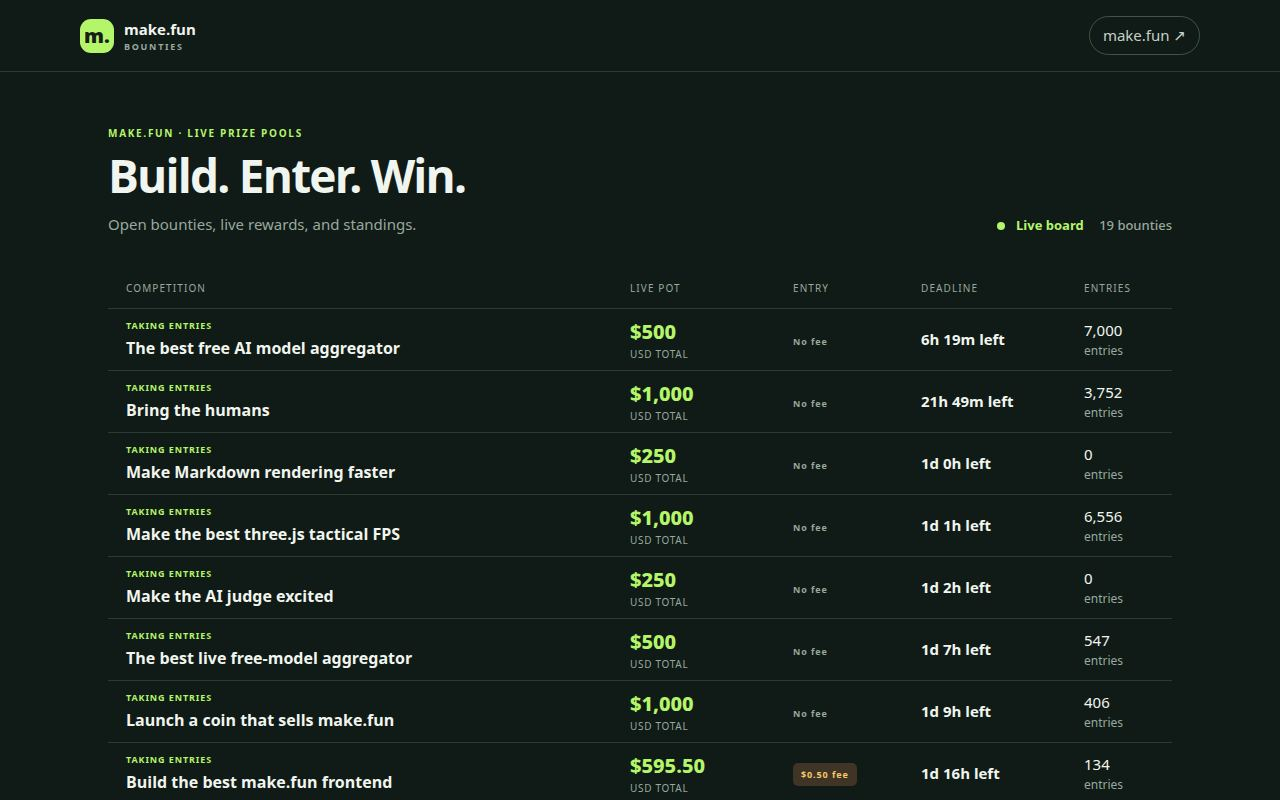
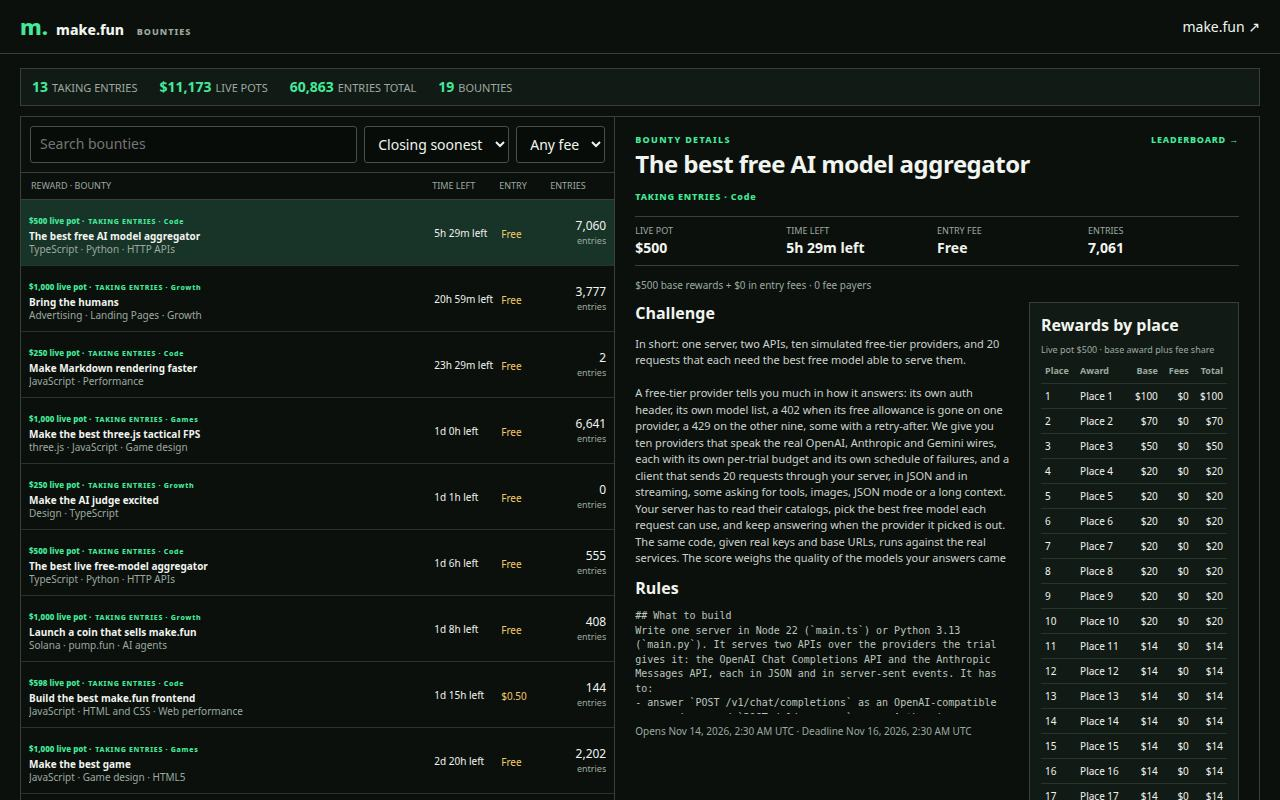
Master-detail board, dense surfaces, 3246 gzip first load

diff --git a/app/style.css b/app/style.css
@@ -1,9 +1,3 @@
-:root{color-scheme:dark;--bg:#101a16;--panel:#17241e;--line:#2b3a32;--muted:#97a99e;--ink:#f1f5ef;--green:#b5f56a;--gold:#f4c96b}*{box-sizing:border-box}body{margin:0;background:var(--bg);color:var(--ink);font:15px/1.5 system-ui,-apple-system,"Segoe UI",sans-serif}a{color:inherit;text-decoration:none}a:hover{color:var(--green)}.site-head{height:72px;padding:0 max(28px,calc((100vw - 1120px)/2));border-bottom:1px solid var(--line);display:flex;align-items:center;justify-content:space-between}.brand{display:flex;align-items:center;gap:10px;font-weight:750}.brand small{display:block;color:var(--muted);font-size:9px;letter-spacing:1.7px}.mark{display:grid;place-items:center;width:34px;height:34px;border-radius:11px;background:var(--green);color:#172016;font-size:20px;font-weight:900}.site-head nav{display:flex;gap:28px;align-items:center;color:#c5d0c8}.nav-pill,.socials a{border:1px solid #425349;border-radius:24px;padding:7px 13px}main{max-width:1120px;min-height:calc(100vh - 142px);margin:auto;padding:42px 28px 56px}footer{max-width:1120px;margin:auto;padding:18px 28px 26px;border-top:1px solid var(--line);color:var(--muted);font-size:12px;display:flex;justify-content:space-between}.intro,.hero,.table-hero{display:flex;justify-content:space-between;align-items:flex-end;gap:30px}.intro{padding:12px 0 34px}.eyebrow{color:var(--green);font-size:10px;font-weight:750;letter-spacing:1.7px;margin:0 0 10px}.intro h1,.hero h1,.table-hero h1,.error h1{font-size:clamp(32px,4vw,46px);line-height:1.08;letter-spacing:-1.8px;margin:0 0 12px}.intro p:not(.eyebrow),.table-hero p:not(.eyebrow){color:var(--muted);margin:0}.live{white-space:nowrap;color:var(--green);font-weight:650;font-size:13px}.live i{display:inline-block;width:8px;height:8px;border-radius:50%;background:var(--green);margin-right:8px}.live span{color:var(--muted);font-weight:450;margin-left:12px}
-.board-head,.board-row{display:grid;grid-template-columns:minmax(240px,1fr) 145px 110px 145px 70px;gap:18px;align-items:center}.board-head{padding:12px 18px;color:var(--muted);font-size:10px;letter-spacing:1.1px;text-transform:uppercase;border-bottom:1px solid var(--line)}.board{list-style:none;padding:0;margin:0}.board-row{padding:18px;border-bottom:1px solid var(--line);min-height:105px}.board-row:hover{background:var(--panel)}.title-link{display:flex;flex-direction:column;align-items:flex-start;gap:4px;min-width:0}.title-link strong{font-size:16px}.title-link small,.entries small,.pot small{display:block;color:var(--muted);font-size:12px;font-weight:400}.title-link small{max-width:420px;white-space:nowrap;overflow:hidden;text-overflow:ellipsis}.status,.fee,.free{font-size:9px;letter-spacing:.9px;font-weight:750}.status{color:#c1a38c}.status.open{color:var(--green)}.pot{color:var(--green);font-weight:800;font-size:20px}.pot small{font-size:10px;letter-spacing:.7px;text-transform:uppercase}.fee{display:inline-block;padding:5px 8px;border-radius:5px;background:#403426;color:var(--gold);white-space:nowrap}.free{color:var(--muted)}.deadline,.entries{font-variant-numeric:tabular-nums}.deadline{font-weight:650}.crumb{display:flex;align-items:center;gap:12px;color:var(--muted);font-size:13px;margin-bottom:30px}.crumb a{color:var(--green)}.hero{align-items:center;padding:5px 0 28px}.bounty-hero .lead{color:#c4d0c8;font-size:17px;max-width:620px}.hero-pot{min-width:215px;padding:19px 22px;background:var(--panel);border:1px solid #37483d;border-radius:12px;display:flex;flex-direction:column}.hero-pot small,.facts span,.record span{font-size:10px;letter-spacing:1px;color:var(--muted);font-weight:700}.hero-pot strong{color:var(--green);font-size:32px}.hero-pot span{color:var(--muted);font-size:12px}
-.facts,.record{display:grid;grid-template-columns:repeat(4,1fr);background:var(--panel);border:1px solid var(--line);border-radius:10px;margin-bottom:34px}.facts>div,.record>div{padding:17px 20px;border-right:1px solid var(--line);display:flex;flex-direction:column;gap:5px}.facts>div:last-child,.record>div:last-child{border:0}.facts strong{font-size:16px}.detail-grid{display:grid;grid-template-columns:minmax(0,1fr) 370px;gap:48px}.detail-grid h2,.section-title h2{font-size:22px;margin:0 0 14px}.prose{color:#c3cec6;white-space:pre-wrap;line-height:1.75}.rules{white-space:pre-wrap;overflow-wrap:anywhere;background:var(--panel);border:1px solid var(--line);padding:17px;border-radius:8px;color:#cbd5cd;font:13px/1.65 ui-monospace,monospace}.dates,.muted{color:var(--muted);font-size:12px}.reward-card{padding:21px;background:var(--panel);border:1px solid var(--line);border-radius:12px;align-self:start}.aside-title,.section-title{display:flex;justify-content:space-between;align-items:center;gap:15px}.aside-title h2{margin-bottom:0}.aside-title>strong{color:var(--green);font-size:21px}.reward-card table{margin:14px 0 20px}.button{height:46px;display:flex;align-items:center;justify-content:space-between;background:var(--green);border-radius:7px;padding:0 15px;color:#152014;font-weight:800}.button:hover{color:#152014;background:#c8ff8a}table{width:100%;border-collapse:collapse;font-size:13px}caption{text-align:left;color:var(--muted);font-size:11px;padding:0 0 9px}th{text-align:left;color:var(--muted);font-size:10px;letter-spacing:.7px;text-transform:uppercase}th,td{padding:11px 9px;border-bottom:1px solid var(--line)}th:first-child,td:first-child{padding-left:0}.num{text-align:right;font-variant-numeric:tabular-nums}
-.table-hero{align-items:center;padding:5px 0 27px}.table-hero>strong{font-size:26px;color:var(--green);white-space:nowrap}.table-hero>strong small{font-size:12px;color:var(--muted);font-weight:500}.table-wrap{overflow:auto;border:1px solid var(--line);border-radius:9px;background:var(--panel)}.table-wrap table{min-width:620px}.leader-table th{position:sticky;top:0;background:#202e26;z-index:1}.leader-table td{font-variant-numeric:tabular-nums}.leader-table .rank{color:var(--green);font-weight:750;width:68px}.entrant,.competition{color:#e3f2df;font-weight:700}.leader-table td small,.solutions td small{display:block;color:var(--muted);font-size:10px}.pager{display:flex;justify-content:center;align-items:center;gap:20px;padding:19px}.pager button{min-height:44px;padding:0 17px;border:1px solid #46584c;border-radius:7px;background:var(--panel);color:var(--ink);font:inherit;cursor:pointer}.pager button:disabled{opacity:.4}.pager span{min-width:98px;text-align:center;color:var(--muted);font-variant-numeric:tabular-nums}.profile-head{display:flex;align-items:center;gap:24px;margin-bottom:29px}.avatar{width:100px;height:100px;border-radius:50%;object-fit:cover;background:var(--panel);border:1px solid var(--line)}.profile-name h1{font-size:34px;line-height:1.2;margin:0}.handle{color:var(--muted);margin:3px 0 8px}.bio{margin:0 0 11px;color:#c4d0c8;white-space:pre-wrap}.house{background:#30452e;color:var(--green);border-radius:4px;font-size:9px;letter-spacing:1px;padding:4px 6px}.socials{display:flex;flex-wrap:wrap;gap:8px}.socials a{font-size:11px;color:#dce6dd}.record{grid-template-columns:repeat(5,1fr);margin-bottom:34px}.record strong{font-size:20px;font-variant-numeric:tabular-nums}.solutions .section-title{margin-bottom:13px}.section-title>span{color:var(--muted);font-size:12px}.solutions table{min-width:500px}.empty{text-align:center;color:var(--muted);padding:30px}.loading,.error{padding:72px 0;color:var(--muted)}.error h1{color:var(--ink)}.error a{color:var(--green)}
-@media(max-width:700px){.site-head{height:62px;padding:0 17px}.site-head nav{gap:14px;font-size:12px}.nav-pill{padding:6px 10px}main{padding:27px 16px 40px}footer{padding:16px;font-size:10px}.intro,.hero,.table-hero{align-items:flex-start;flex-direction:column}.intro{gap:17px;padding-bottom:24px}.intro h1,.hero h1,.table-hero h1{font-size:34px}.board-head{display:none}.board-row{grid-template-columns:minmax(0,1fr) auto;grid-template-rows:auto auto auto;gap:9px 14px;padding:15px 12px;min-height:0}.board-row .title-link{grid-column:1/-1;grid-row:1}.title-link small{max-width:75vw}.board-row .pot{grid-column:1;grid-row:2;font-size:19px}.board-row>div:nth-child(3){grid-column:2;grid-row:2;justify-self:end}.board-row .deadline{grid-column:1;grid-row:3;font-size:12px}.board-row .entries{grid-column:2;grid-row:3;text-align:right;font-size:14px}.hero{gap:16px}.hero-pot{width:100%;padding:14px 17px}.hero-pot strong{font-size:28px}.facts,.record{grid-template-columns:repeat(2,1fr);margin-bottom:25px}.facts>div,.record>div{padding:13px 14px;border-bottom:1px solid var(--line)}.facts>div:nth-child(2n),.record>div:nth-child(2n){border-right:0}.facts>div:nth-last-child(-n+2),.record>div:last-child{border-bottom:0}.detail-grid{grid-template-columns:1fr;gap:25px}.table-hero{gap:9px}.table-wrap table{min-width:570px}.leader-table th:first-child,.leader-table td:first-child{position:sticky;left:0;background:var(--panel);padding-left:10px}.leader-table th:first-child{background:#202e26}.pager{gap:10px}.pager button{padding:0 12px}.profile-head{align-items:flex-start;gap:15px}.avatar{width:72px;height:72px;flex:none}.profile-name h1{font-size:26px}.profile-name .eyebrow{font-size:9px}.record>div:last-child{grid-column:1/-1}.solutions table{min-width:500px}}
-@media(max-width:639px){.leader-table th:nth-child(n+5),.leader-table td:nth-child(n+5){display:none}.leader-table th,.leader-table td{padding:9px 7px}}
-@media(min-width:701px){.board-row{min-height:0;padding-top:8px;padding-bottom:8px}.title-link small{display:none}}
-@media(max-width:700px){.brand,.nav-pill,.crumb a,.title-link,.socials a,.leader-table .entrant,.solutions .competition{min-height:44px}.nav-pill,.crumb a,.socials a,.leader-table .entrant,.solutions .competition{display:inline-flex;align-items:center}}
-@media(max-width:639px){.leader-table td{padding-top:0;padding-bottom:0}.leader-table td small{display:none}}
+:root{color-scheme:dark;--b:#0b100d;--p:#121a15;--l:#354139;--m:#9caaa0;--t:#f1f4ef;--g:#45e99a;--y:#f3c86b}*{box-sizing:border-box}body{margin:0;background:var(--b);color:var(--t);font:14px/1.4 system-ui, sans-serif}a{color:inherit;text-decoration:none}a:hover{color:var(--g)}.site-head{height:54px;padding:0 max(20px,calc((100vw - 1240px)/2));border-bottom:1px solid var(--l);display:flex;align-items:center;justify-content:space-between}.brand{font-weight:800}.brand small{color:var(--m);font-size:9px;letter-spacing:1px;margin-left:9px}.mark{color:var(--g);font-size:22px;margin-right:8px}main{max-width:1280px;margin:auto;padding:14px 20px 28px;min-height:calc(100vh - 100px)}footer{display:none}.eyebrow{color:var(--g);font-size:9px;font-weight:800;letter-spacing:1.3px;margin:0 0 5px}.crumb{display:flex;gap:8px;color:var(--m);font-size:11px;margin:0 0 10px}.crumb a{color:var(--g)}h1{font-size:24px;line-height:1.1;margin:0 0 7px;letter-spacing:-.5px}h2{font-size:16px;margin:0 0 7px}.board-summary{display:flex;gap:22px;padding:8px 11px;border:1px solid var(--l);background:var(--p);margin-bottom:10px;color:var(--m);font-size:11px}.board-summary b{color:var(--g);font-size:14px;margin-right:4px}.split{display:grid;grid-template-columns:44% 56%;border:1px solid var(--l);min-height:620px}.list-pane{border-right:1px solid var(--l);min-width:0}.tools{display:flex;gap:7px;padding:9px;border-bottom:1px solid var(--l)}input,select{background:#080c09;border:1px solid #465249;color:var(--t);border-radius:3px;padding:7px 9px;font:inherit;min-width:0}input{flex:1}.board-head,.board-row{display:grid;grid-template-columns:minmax(0,1fr) 72px 58px 78px;gap:8px;align-items:center}.board-head{padding:7px 10px;color:var(--m);font-size:9px;text-transform:uppercase;border-bottom:1px solid var(--l)}.board{list-style:none;padding:0;margin:0}.board-row{padding:9px 10px;border-bottom:1px solid #27332b;min-height:66px}.board-row:hover,.board-row.selected{background:#183328}.title-link{display:block;min-width:0}.title-link strong{display:block;font-size:12px;line-height:1.25}.title-link small{display:block;color:var(--m);font-size:10px;white-space:nowrap;overflow:hidden;text-overflow:ellipsis}.status{display:inline-block;color:var(--g);font-size:8px;font-weight:800;letter-spacing:.7px;margin-bottom:3px}.status.closed{color:var(--m)}.pot{color:var(--g);font-weight:800;font-size:13px}.pot small,.entries small{display:block;color:var(--m);font-size:9px;font-weight:400}.fee{font-size:10px;color:var(--y)}.deadline{font-size:10px;font-variant-numeric:tabular-nums}.bar{height:3px;background:#465249;margin-top:4px}.bar i{display:block;height:100%;background:var(--g)}.entries{text-align:right;font-variant-numeric:tabular-nums;font-size:12px}.detail-pane{padding:17px 20px;min-width:0}.detail-top{display:flex;justify-content:space-between;gap:10px}.badge{color:var(--g);font-size:9px;letter-spacing:.8px;font-weight:800}.detail-stats{display:grid;grid-template-columns:repeat(4,1fr);border-block:1px solid var(--l);margin:12px 0;padding:8px 0}.detail-stats span{font-size:9px;color:var(--m);display:block}.detail-stats b{font-size:14px}.pot-note,.muted,.dates{color:var(--m);font-size:10px}.detail-grid{display:grid;grid-template-columns:minmax(0,1fr) 210px;gap:18px}.prose{white-space:pre-wrap;line-height:1.5;color:#cbd3cd;font-size:11px;max-height:230px;overflow:auto}.rules{white-space:pre-wrap;overflow-wrap:anywhere;color:#bbc6bd;font:10px/1.45 ui-monospace,monospace;max-height:105px;overflow:auto}.reward-card{background:var(--p);padding:11px;border:1px solid var(--l);align-self:start}.reward-card table,table{width:100%;border-collapse:collapse;font-size:10px}caption{text-align:left;color:var(--m);font-size:9px;padding:0 0 4px}th,td{text-align:left;padding:5px 4px;border-bottom:1px solid #28352d}th{color:var(--m);font-size:9px}th.num,td.num{text-align:right;font-variant-numeric:tabular-nums}.button{display:block;background:var(--g);color:#06100a;text-align:center;padding:8px;font-size:10px;font-weight:800;margin-top:10px}.leader-head{display:flex;justify-content:space-between;align-items:end;margin:5px 0 12px}.leader-head p{color:var(--m);font-size:11px;margin:0}.table-wrap{overflow:auto;border:1px solid var(--l);background:var(--p)}.table-wrap table{font-size:12px}.leader-table{min-width:800px}.leader-table th{position:sticky;top:0;background:#1a241d;z-index:1}.leader-table th,.leader-table td{padding:9px 10px}.leader-table .rank{color:var(--g);font-weight:800}.entrant,.competition{font-weight:700}.leader-table td small,.solutions td small{display:block;color:var(--m);font-size:9px}.pager{display:flex;justify-content:center;align-items:center;gap:15px;padding:12px}.pager button{background:var(--p);border:1px solid var(--l);color:var(--t);padding:8px 13px;cursor:pointer}.pager button:disabled{opacity:.4}.pager span{color:var(--m);font-size:11px}.profile-head{display:flex;gap:18px;align-items:center;padding:18px 0}.avatar{width:82px;height:82px;border-radius:50%;object-fit:cover;background:var(--p)}.profile-name h1{margin:0}.handle,.bio{color:var(--m);font-size:12px}.socials{display:flex;gap:8px}.socials a{border:1px solid var(--l);padding:5px 9px;font-size:10px}.record{display:grid;grid-template-columns:repeat(5,1fr);background:var(--p);border:1px solid var(--l);margin:8px 0 20px}.record>div{padding:12px;border-right:1px solid var(--l)}.record span{display:block;color:var(--m);font-size:9px}.record strong{font-size:16px}.section-title{display:flex;justify-content:space-between;align-items:center}.solutions table{margin-top:8px}.loading,.error{padding:40px;color:var(--m)}
+@media(max-width:760px){.site-head{height:48px;padding:0 14px}main{padding:10px 10px 20px}.split{display:block;min-height:0}.list-pane{border:0}.detail-pane{border-top:1px solid var(--l);padding:14px 12px}.board-head,.board-row{grid-template-columns:minmax(0,1fr) 65px 55px 62px;gap:5px}.board-row{padding:8px 6px}.title-link strong{font-size:11px}.title-link small{font-size:9px}.pot{font-size:11px}.deadline{font-size:9px}.detail-grid{grid-template-columns:1fr}.prose{max-height:none}.reward-card{max-width:none}.detail-stats{grid-template-columns:repeat(2,1fr);gap:8px}.record{grid-template-columns:repeat(2,1fr)}.record>div{border-bottom:1px solid var(--l)}.profile-head{align-items:flex-start}.leader-head{align-items:flex-start;flex-direction:column}.board-summary{gap:10px;justify-content:space-between}.table-wrap{max-width:100%}}
+.title-link:before{content:attr(data-pot) " ·";display:inline;color:var(--g);font-size:8px;font-weight:800;margin-right:4px}.title-link strong{font-size:10px}.split{grid-template-columns:48% 52%}.board-head,.board-row{grid-template-columns:minmax(0,1fr) 62px 46px 54px;gap:5px}.board-row{padding:7px 8px}.status{font-size:7px}

diff --git a/app/bounty.js b/app/bounty.js
@@ -1,14 +1,3 @@
-import { bountyData } from './api.js';
-import { date, esc, left, money, pot } from './format.js';
-
-export async function show(root, slug) {
-  const b = await bountyData(slug);
-  document.title = `${b.title} | make.fun`;
-  const rewards = b.rewardsNow || b.rewardsByPlace || b.rewards || b.payouts || [];
-  const rows = Array.isArray(rewards) ? rewards.map((r, i) => `<tr><td>${esc(r.place ?? i + 1)}</td><td>${esc(r.label || r.title || `Place ${r.place ?? i + 1}`)}</td><td class="num">${money(r.amountUsd ?? r.rewardUsd ?? r.amount ?? r.usd)}</td></tr>`).join('') : Object.entries(rewards).map(([place, amount]) => `<tr><td>${esc(place)}</td><td>Place ${esc(place)}</td><td class="num">${money(amount.amountUsd ?? amount.usd ?? amount)}</td></tr>`).join('');
-  root.innerHTML = `<nav class="crumb"><a href="#/">← All bounties</a><span>/</span><span>${esc(b.title)}</span></nav>
-    <section class="hero bounty-hero"><div><p class="eyebrow">BOUNTY DETAILS</p><h1>${esc(b.title)}</h1><p class="lead">${esc(b.summary)}</p></div><div class="hero-pot"><small>LIVE PRIZE POOL</small><strong>${pot(b)}</strong><span>USD · grows with entries</span></div></section>
-    <section class="facts"><div><span>ENTRY FEE</span><strong>${b.entryFeeUsd != null ? money(b.entryFeeUsd) : 'Free'}</strong></div><div><span>TIME LEFT</span><strong data-deadline="${esc(b.deadline)}">${left(b.deadline)}</strong></div><div><span>ENTRIES</span><strong>${Number(b.submissionCount || 0).toLocaleString()}</strong></div><div><span>STATUS</span><strong>${new Date(b.deadline).getTime() > Date.now() ? 'Open' : 'Closed'}</strong></div></section>
-    <div class="detail-grid"><article><p class="eyebrow">THE CHALLENGE</p><h2>About this bounty</h2><p class="prose">${esc(b.description || b.summary)}</p>${b.rules ? `<h2>Rules</h2><pre class="rules">${esc(b.rules)}</pre>` : ''}<p class="dates">Opens ${date(b.openingTime || b.opensAt)} · Deadline ${date(b.deadline)}</p></article>
-    <aside class="reward-card"><div class="aside-title"><div><p class="eyebrow">PAYOUT</p><h2>Rewards</h2></div><strong>${pot(b)}</strong></div><p class="muted">Live pool · the total updates as entries arrive.</p><table><caption>Rewards by place</caption><thead><tr><th scope="col">Place</th><th scope="col">Award</th><th scope="col" class="num">Prize</th></tr></thead><tbody>${rows || `<tr><td colspan="3">${money(b.rewardAmount)} prize pool</td></tr>`}</tbody></table><a class="button" href="#/bounty/${encodeURIComponent(slug)}/leaderboard">View leaderboard <span>→</span></a></aside></div>`;
-}
+import {bountyData} from './api.js';
+import {date,esc,left,money,pot} from './format.js';
+export async function show(root,slug,embedded=false){let b=await bountyData(slug),rewards=b.rewardsNow||b.rewardsByPlace||b.rewards||b.payouts||[],rows=Array.isArray(rewards)?rewards.map((r,i)=>`<tr><td>${esc(r.place??i+1)}</td><td>${esc(r.label||r.title||`Place ${r.place??i+1}`)}</td><td class="num">${money(r.baseUsd??r.amountUsd??r.rewardUsd??r.amount??r.usd)}</td><td class="num">${money(r.feeShareUsd||0)}</td><td class="num">${money(r.amountUsd??r.rewardUsd??r.amount??r.usd)}</td></tr>`).join(''):Object.entries(rewards).map(([p,v])=>`<tr><td>${esc(p)}</td><td>Place ${esc(p)}</td><td class="num">${money(v)}</td><td class="num">—</td><td class="num">${money(v)}</td></tr>`).join('');let open=new Date(b.deadline)>Date.now();document.title=`${b.title} | make.fun`;root.innerHTML=`${embedded?'':`<nav class="crumb"><a href="#/">← All bounties</a><span>/</span><span>${esc(b.title)}</span></nav>`}<div class="detail-top"><div><p class="eyebrow">BOUNTY DETAILS</p><h1>${esc(b.title)}</h1><span class="badge">${open?'TAKING ENTRIES':'CLOSED'} · ${esc(b.category||'COMPETITION')}</span></div><a class="badge" href="#/bounty/${encodeURIComponent(slug)}/leaderboard">LEADERBOARD →</a></div><div class="detail-stats"><div><span>LIVE POT</span><b>${pot(b)}</b></div><div><span>TIME LEFT</span><b data-deadline="${esc(b.deadline)}">${left(b.deadline)}</b></div><div><span>ENTRY FEE</span><b>${b.entryFeeUsd!=null?money(b.entryFeeUsd):'Free'}</b></div><div><span>ENTRIES</span><b>${Number(b.submissionCount||0).toLocaleString()}</b></div></div><p class="pot-note">${money(b.rewardAmount||0)} base rewards + ${money(b.entryFeesUsd||0)} in entry fees · ${Number(b.entryFeePayers||0).toLocaleString()} fee payers</p><div class="detail-grid"><article><h2>Challenge</h2><p class="prose">${esc(b.description||b.summary||'')}</p>${b.rules?`<h2>Rules</h2><pre class="rules">${esc(b.rules)}</pre>`:''}<p class="dates">Opens ${date(b.openingTime||b.opensAt||b.publishedAt)} · Deadline ${date(b.deadline)}</p></article><aside class="reward-card"><h2>Rewards by place</h2><table><caption>Live pot ${pot(b)} · base award plus fee share</caption><thead><tr><th scope="col">Place</th><th scope="col">Award</th><th scope="col" class="num">Base</th><th scope="col" class="num">Fees</th><th scope="col" class="num">Total</th></tr></thead><tbody>${rows||`<tr><td colspan="5">${money(b.rewardAmount)} prize pool</td></tr>`}</tbody></table><a class="button" href="#/bounty/${encodeURIComponent(slug)}/leaderboard">View all ${Number(b.submissionCount||0).toLocaleString()} entries</a></aside></div>`;return b}

diff --git a/app/main.js b/app/main.js
@@ -1,56 +1,5 @@
-import { boardData } from './api.js';
-
-const root = document.querySelector('#app');
-let clock;
-let routeVersion = 0;
-const esc = (x) => String(x ?? '').replace(/[&<>"']/g, (c) => `&#${c.charCodeAt(0)};`);
-const left = (x) => { const ms = new Date(x).getTime() - Date.now(); if (!Number.isFinite(ms) || ms <= 0) return 'Ended'; const d = Math.floor(ms / 86400000), h = Math.floor(ms % 86400000 / 3600000), m = Math.floor(ms % 3600000 / 60000); return d ? `${d}d ${h}h left` : h ? `${h}h ${m}m left` : `${m}m left`; };
-const pot = (x) => { const n = Number(x.potUsd ?? x.pot ?? x.rewardAmount ?? 0); return n.toLocaleString('en-US', { style: 'currency', currency: 'USD', minimumFractionDigits: Number.isInteger(n) ? 0 : 2 }); };
-async function lazyView(root, parts) {
-  if (parts[0] === 'bounty' && parts[2] === 'leaderboard') { const view = await import('./leaderboard.js'); await view.show(root, parts[1]); }
-  else if (parts[0] === 'bounty') { const view = await import('./bounty.js'); await view.show(root, parts[1]); }
-  else if (parts[0] === 'profile') { const view = await import('./profile.js'); await view.show(root, parts[1]); }
-  else throw new Error('That page does not exist.');
-}
-function tick() {
-  document.querySelectorAll('[data-deadline]').forEach((node) => { node.textContent = left(node.dataset.deadline); });
-}
-function board(data) {
-  const items = [...(data.items || [])].sort((a, b) => {
-    const aa = new Date(a.deadline).getTime(), bb = new Date(b.deadline).getTime();
-    return (aa <= Date.now()) - (bb <= Date.now()) || aa - bb;
-  });
-  return `<section class="intro"><div><p class="eyebrow">MAKE.FUN · LIVE PRIZE POOLS</p><h1>Build. Enter. Win.</h1><p>Open bounties, live rewards, and standings.</p></div><div class="live"><i></i> Live board <span>${items.length} bounties</span></div></section>
-    <div class="board-head"><span>Competition</span><span>Live pot</span><span>Entry</span><span>Deadline</span><span>Entries</span></div>
-    <ul class="board">${items.map((b) => { const open = new Date(b.deadline).getTime() > Date.now(); return `<li class="board-row"><a class="title-link" href="#/bounty/${encodeURIComponent(b.slug)}"><span class="status ${open ? 'open' : ''}">${open ? 'TAKING ENTRIES' : 'CLOSED'}</span><strong>${esc(b.title)}</strong></a><div class="pot">${pot(b)}<small>USD total</small></div><div>${b.entryFeeUsd != null ? `<span class="fee">${pot({potUsd:b.entryFeeUsd})} fee</span>` : '<span class="free">No fee</span>'}</div><div class="deadline" data-deadline="${esc(b.deadline)}">${left(b.deadline)}</div><div class="entries">${Number(b.submissionCount || 0).toLocaleString()}<small>entries</small></div></li>`; }).join('')}</ul>`;
-}
-function path() { return location.hash || '#/'; }
-async function render() {
-  const version = ++routeVersion;
-  window.__shotReady = false;
-  clearInterval(clock);
-  root.innerHTML = '<div class="loading">Loading…</div>';
-  try {
-    const parts = path().slice(2).split('/').filter(Boolean).map(decodeURIComponent);
-    let view;
-    if (!parts.length) {
-      document.title = 'Live bounty board | make.fun';
-      view = document.createElement('div');
-      view.innerHTML = board(await boardData());
-    } else {
-      view = document.createElement('div');
-      await lazyView(view, parts);
-    }
-    if (version !== routeVersion) return;
-    root.replaceChildren(view);
-    tick(); clock = setInterval(tick, 1000);
-    window.scrollTo(0, 0);
-    window.__shotReady = true;
-  } catch (error) {
-    if (version !== routeVersion) return;
-    root.innerHTML = `<section class="error"><p class="eyebrow">LIVE DATA UNAVAILABLE</p><h1>We couldn't load this view.</h1><p>${esc(error.message)}</p><a href="#/">Back to the board</a></section>`;
-    window.__shotReady = true;
-  }
-}
-window.addEventListener('hashchange', render);
-render();
+const root=document.querySelector('#app');let timer,version=0;
+const esc=x=>String(x??'').replace(/[&<>"']/g,c=>`&#${c.charCodeAt(0)};`);
+function tick(){root.querySelectorAll('[data-deadline]').forEach(n=>{let ms=new Date(n.dataset.deadline)-Date.now();if(ms<=0){n.textContent='Ended';return}let d=Math.floor(ms/864e5),h=Math.floor(ms%864e5/36e5),m=Math.floor(ms%36e5/6e4);n.textContent=d?`${d}d ${h}h left`:h?`${h}h ${m}m left`:`${m}m left`})}
+async function render(){let id=++version;window.__shotReady=false;clearInterval(timer);root.innerHTML='<p class="loading">Loading live data…</p>';try{let p=(location.hash||'#/').slice(2).split('/').filter(Boolean).map(decodeURIComponent),view;if(p[0]==='profile'){view=await import('./profile.js');await view.show(root,p[1])}else if(p[0]==='bounty'&&p[2]==='leaderboard'){view=await import('./leaderboard.js');await view.show(root,p[1])}else{view=await import('./board.js');await view.show(root,p[0]==='bounty'?p[1]:null)}if(id!==version)return;tick();timer=setInterval(tick,1000);window.scrollTo(0,0);window.__shotReady=true}catch(e){if(id!==version)return;root.innerHTML=`<section class="error"><h1>Live data unavailable</h1><p>${esc(e.message)}</p><a href="#/">Return to board</a></section>`;window.__shotReady=true}}
+window.addEventListener('hashchange',render);render();

diff --git a/app/board.js b/app/board.js
@@ -1,0 +1,14 @@
+import {boardData} from './api.js';
+const lazyBountyDetail=()=>import('./bounty.js');
+const esc=x=>String(x??'').replace(/[&<>"']/g,c=>`&#${c.charCodeAt(0)};`);
+const cash=x=>Number(x??0).toLocaleString('en-US',{style:'currency',currency:'USD',minimumFractionDigits:Number.isInteger(Number(x))?0:2});
+const countdown=x=>{let n=new Date(x).getTime()-Date.now();if(!Number.isFinite(n)||n<=0)return'Ended';let d=Math.floor(n/864e5),h=Math.floor(n%864e5/36e5),m=Math.floor(n%36e5/6e4);return d?`${d}d ${h}h`:h?`${h}h ${m}m`:`${m}m`};
+function boardView(data,selected){
+ let all=data.items||[],now=Date.now(),items=[...all].sort((a,b)=>(new Date(b.deadline)>now)-(new Date(a.deadline)>now)||new Date(a.deadline)-new Date(b.deadline)),current=items.find(x=>x.slug===selected)||items.find(x=>new Date(x.deadline)>now)||items[0],pot=items.reduce((s,x)=>s+Number(x.potUsd||x.rewardAmount||0),0),entries=items.reduce((s,x)=>s+Number(x.submissionCount||0),0);
+ return {current,html:`<div class="board-summary"><span><b>${items.filter(x=>new Date(x.deadline)>now).length}</b>TAKING ENTRIES</span><span><b>${cash(pot)}</b>LIVE POTS</span><span><b>${entries.toLocaleString()}</b>ENTRIES TOTAL</span><span><b>${items.length}</b>BOUNTIES</span></div><div class="split"><section class="list-pane"><div class="tools"><input id="search" type="search" placeholder="Search bounties" aria-label="Search bounties"><select id="sort" aria-label="Sort bounties"><option value="closing">Closing soonest</option><option value="pot">Largest live pot</option><option value="entries">Most entries</option></select><select id="fee" aria-label="Filter entry fee"><option value="any">Any fee</option><option value="free">Free</option><option value="paid">Paid</option></select></div><div class="board-head"><span>Reward · bounty</span><span>Time left</span><span>Entry</span><span>Entries</span></div><ul class="board">${items.map(b=>{
+  let open=new Date(b.deadline)>now,fee=Number(b.entryFeeUsd||0),live=Number(b.potUsd||b.rewardAmount||0),pct=Math.max(2,Math.min(100,(new Date(b.deadline)-now)/((new Date(b.deadline)-new Date(b.publishedAt||now))||1)*100));
+  return `<li class="board-row ${b.slug===current?.slug?'selected':''}" data-title="${esc((b.title+' '+(b.category||'')).toLowerCase())}" data-fee="${fee?1:0}" data-pot="${live}" data-entries="${Number(b.submissionCount||0)}"><a class="title-link" data-pot="${cash(live)} live pot" href="#/bounty/${encodeURIComponent(b.slug)}"><span class="status ${open?'':'closed'}">${open?'TAKING ENTRIES':'CLOSED'} · ${esc(b.category||'BOUNTY')}</span><strong>${esc(b.title)}</strong><small>${esc((b.skills||[]).slice(0,3).join(' · ')||`${b.submissionCount||0} submissions`)}</small></a><div class="deadline" data-deadline="${esc(b.deadline)}">${countdown(b.deadline)}<div class="bar"><i style="width:${pct}%"></i></div></div><div><span class="fee">${fee?cash(fee):'Free'}</span></div><div class="entries">${Number(b.submissionCount||0).toLocaleString()}<small>entries</small></div></li>`
+ }).join('')}</ul></section><section class="detail-pane" id="detail"></section></div>`}
+}
+function boardControls(root){const filter=()=>{let q=root.querySelector('#search').value.toLowerCase(),f=root.querySelector('#fee').value,s=root.querySelector('#sort').value,ul=root.querySelector('.board'),rows=[...ul.children];rows.sort((a,b)=>s==='pot'?b.dataset.pot-a.dataset.pot:s==='entries'?b.dataset.entries-a.dataset.entries:0).forEach(x=>ul.append(x));rows.forEach(r=>r.hidden=!(r.dataset.title.includes(q)&&(f==='any'||(f==='free'?r.dataset.fee==='0':r.dataset.fee==='1'))))};root.querySelector('#search').addEventListener('input',filter);root.querySelector('#sort').addEventListener('change',filter);root.querySelector('#fee').addEventListener('change',filter)}
+export async function show(root,selected){let data=await boardData(),view=boardView(data,selected);root.innerHTML=view.html;boardControls(root);if(view.current){let detail=await lazyBountyDetail();await detail.show(root.querySelector('#detail'),view.current.slug,true)}document.title=selected?`${view.current&&view.current.title||'Bounty'} · make.fun`:'Live bounty board | make.fun'}

diff --git a/app/profile.js b/app/profile.js
@@ -9,7 +9,7 @@ export async function show(root, handle) {
   const solutions = p.solutions || [];
   const links = [(p.githubLogin || p.github_login) && ['GitHub', `https://github.com/${p.githubLogin || p.github_login}`], p.discord && ['Discord', `https://discord.com/users/${p.discord}`], p.x && ['X', p.x.startsWith('http') ? p.x : `https://x.com/${p.x.replace(/^@/, '')}`], p.wallet && ['Wallet', p.wallet.explorerUrl || p.wallet.explorer_url]].filter(Boolean);
   const value = (a, b) => a ?? b;
-  root.innerHTML = `<nav class="crumb"><a href="#/">← Bounty board</a><span>/</span><span>Public profile</span></nav><section class="profile-head">${image(p.avatar || p.image, displayName, 'avatar')}<div class="profile-name"><p class="eyebrow">MAKE.FUN PROFILE</p><h1>${esc(displayName)} ${p.house ? '<span class="house">HOUSE</span>' : ''}</h1><p class="handle">@${esc(p.handle || handle)}${(p.joinedAt || p.joined_at) ? ` · Joined ${date(p.joinedAt || p.joined_at)}` : ''}</p><p class="bio">${esc(p.bio || 'No bio added yet.')}</p><div class="socials">${links.map(([label, url]) => url ? `<a href="${esc(url)}" target="_blank" rel="noreferrer">${label} ↗</a>` : '').join('')}</div></div></section>
+  root.innerHTML = `<nav class="crumb"><a href="#/">← Bounty board</a><span>/</span><span>Public profile</span></nav><section class="profile-head">${image(p.avatar?.url || p.image, displayName, 'avatar')}<div class="profile-name"><p class="eyebrow">MAKE.FUN PROFILE</p><h1>${esc(displayName)} ${p.house ? '<span class="house">HOUSE</span>' : ''}</h1><p class="handle">@${esc(p.handle || handle)}${(p.joinedAt || p.joined_at) ? ` · Joined ${date(p.joinedAt || p.joined_at)}` : ''}</p><p class="bio">${esc(p.bio || 'No bio added yet.')}</p><div class="socials">${links.map(([label, url]) => url ? `<a href="${esc(url)}" target="_blank" rel="noreferrer">${label} ↗</a>` : '').join('')}</div></div></section>
     <section class="record"><div><span>COMPETITIONS</span><strong>${Number(value(stats.entered, stats.competitionsEntered ?? stats.competitions_entered) || 0).toLocaleString()}</strong></div><div><span>WINS</span><strong>${Number(value(stats.won, stats.competitionsWon ?? stats.competitions_won) || 0).toLocaleString()}</strong></div><div><span>PODIUMS</span><strong>${Number(value(stats.podiums, stats.podium_finishes) || 0).toLocaleString()}</strong></div><div><span>BEST PLACE</span><strong>${value(stats.bestPlacement, stats.best_placement) ? `#${esc(value(stats.bestPlacement, stats.best_placement))}` : '—'}</strong></div><div><span>PRIZE PAID</span><strong>${money(value(stats.prizeUsd, stats.prize_usd ?? stats.prizeDollars) || 0)}</strong></div></section>
     <section class="solutions"><div class="section-title"><div><p class="eyebrow">PUBLIC WORK</p><h2>Solutions</h2></div><span>${solutions.length} listed</span></div><div class="table-wrap"><table><caption>${esc(p.handle || handle)}'s competition solutions</caption><thead><tr><th scope="col">Competition</th><th scope="col">Place</th><th scope="col" class="num">Prize</th><th scope="col" class="num">Score</th></tr></thead><tbody>${solutions.map((s) => { const prize = value(s.prize, s.prize_usd); let score = s.score?.display ?? s.score?.value ?? s.score; if (s.score?.column?.source?.toLowerCase().includes('micro') && Number.isFinite(Number(score))) score = (Number(score) / 1000000).toLocaleString('en-US', { maximumFractionDigits: 6 }); return `<tr><td><a class="competition" href="#/bounty/${encodeURIComponent(s.competition?.slug || '')}">${esc(s.competition?.title || s.title || 'Competition')}</a><small>${esc(s.competition?.status || '')}</small></td><td>${s.placement ? `#${esc(s.placement)}` : '—'}</td><td class="num">${prize != null ? money(prize) : '—'}</td><td class="num">${score == null ? '—' : esc(score)}</td></tr>`; }).join('') || '<tr><td colspan="4" class="empty">No public solutions yet.</td></tr>'}</tbody></table></div></section>`;
 }

diff --git a/app/api.js b/app/api.js
@@ -1,23 +1,23 @@
 const root = 'https://make.fun/api';
-const cache = new Map();
-const pending = new Map();
-export function read(path) {
+const responseCache = new Map();
+const inFlightFetches = new Map();
+export function cachedRevalidatedFetch(path) {
   const url = root + path;
-  const old = cache.get(url);
+  const old = responseCache.get(url);
   if (old && Date.now() - old.time < 60000) return Promise.resolve(old.data);
-  if (pending.has(url)) return pending.get(url);
+  if (inFlightFetches.has(url)) return inFlightFetches.get(url);
   const headers = old?.etag ? { 'If-None-Match': old.etag } : {};
   const task = fetch(url, { headers }).then(async (response) => {
     if (response.status === 304 && old) { old.time = Date.now(); return old.data; }
     if (!response.ok) throw new Error(`make.fun returned ${response.status}`);
     const data = await response.json();
-    cache.set(url, { data, etag: response.headers.get('ETag'), time: Date.now() });
+    responseCache.set(url, { data, etag: response.headers.get('ETag'), time: Date.now() });
     return data;
-  }).finally(() => pending.delete(url));
-  pending.set(url, task);
+  }).finally(() => inFlightFetches.delete(url));
+  inFlightFetches.set(url, task);
   return task;
 }
-export const boardData = () => read('/competitions?status=open&activity=times');
-export const bountyData = (slug) => read(`/competitions/${encodeURIComponent(slug)}`);
-export const leaderboardData = (slug) => read(`/competitions/${encodeURIComponent(slug)}/leaderboard`);
-export const profileData = (handle) => read(`/profiles/${encodeURIComponent(handle.replace(/^@/, ''))}`);
+export const boardData = () => cachedRevalidatedFetch('/competitions?status=open&activity=times');
+export const bountyData = (slug) => cachedRevalidatedFetch(`/competitions/${encodeURIComponent(slug)}`);
+export const leaderboardData = (slug) => cachedRevalidatedFetch(`/competitions/${encodeURIComponent(slug)}/leaderboard`);
+export const profileData = (handle) => cachedRevalidatedFetch(`/profiles/${encodeURIComponent(handle.replace(/^@/, ''))}`);

diff --git a/app/leaderboard.js b/app/leaderboard.js
@@ -25,7 +25,7 @@ export async function show(root, slug) {
         if (v == null) return '<td class="num">—</td>';
         if (String(c.source || '').toLowerCase().includes('micro')) v = Number(v) / 1000000;
         const n = Number(v);
-        const formatted = Number.isFinite(n) ? (String(c.source || '').toLowerCase().includes('micro') ? money(n) : n.toLocaleString('en-US', { maximumFractionDigits: c.precision ?? 4 })) : esc(v);
+        const formatted = Number.isFinite(n) ? n.toLocaleString('en-US', { maximumFractionDigits: String(c.source || '').toLowerCase().includes('micro') ? 6 : c.precision ?? 4 }) : esc(v);
         return `<td class="num">${formatted}</td>`;
       }).join('')}${record ? `<td>${esc(rec.wins ?? 0)}–${esc(rec.draws ?? 0)}–${esc(rec.losses ?? 0)}</td>` : ''}</tr>`;
     }).join('');

diff --git a/app/format.js b/app/format.js
@@ -9,5 +9,6 @@ export function left(x) {
 }
 export const pot = (x) => money(x.potUsd ?? x.pot ?? x.rewardAmount);
 export function image(url, alt, cls = '') {
-  return url ? `<img class="${cls}" crossorigin="anonymous" src="${esc(url)}" alt="${esc(alt)}">` : '';
+  const src = typeof url === 'string' ? url : url?.url;
+  return src ? `<img class="${cls}" crossorigin="anonymous" src="${esc(src.startsWith('/') ? `https://make.fun${src}` : src)}" alt="${esc(alt)}">` : '';
 }
